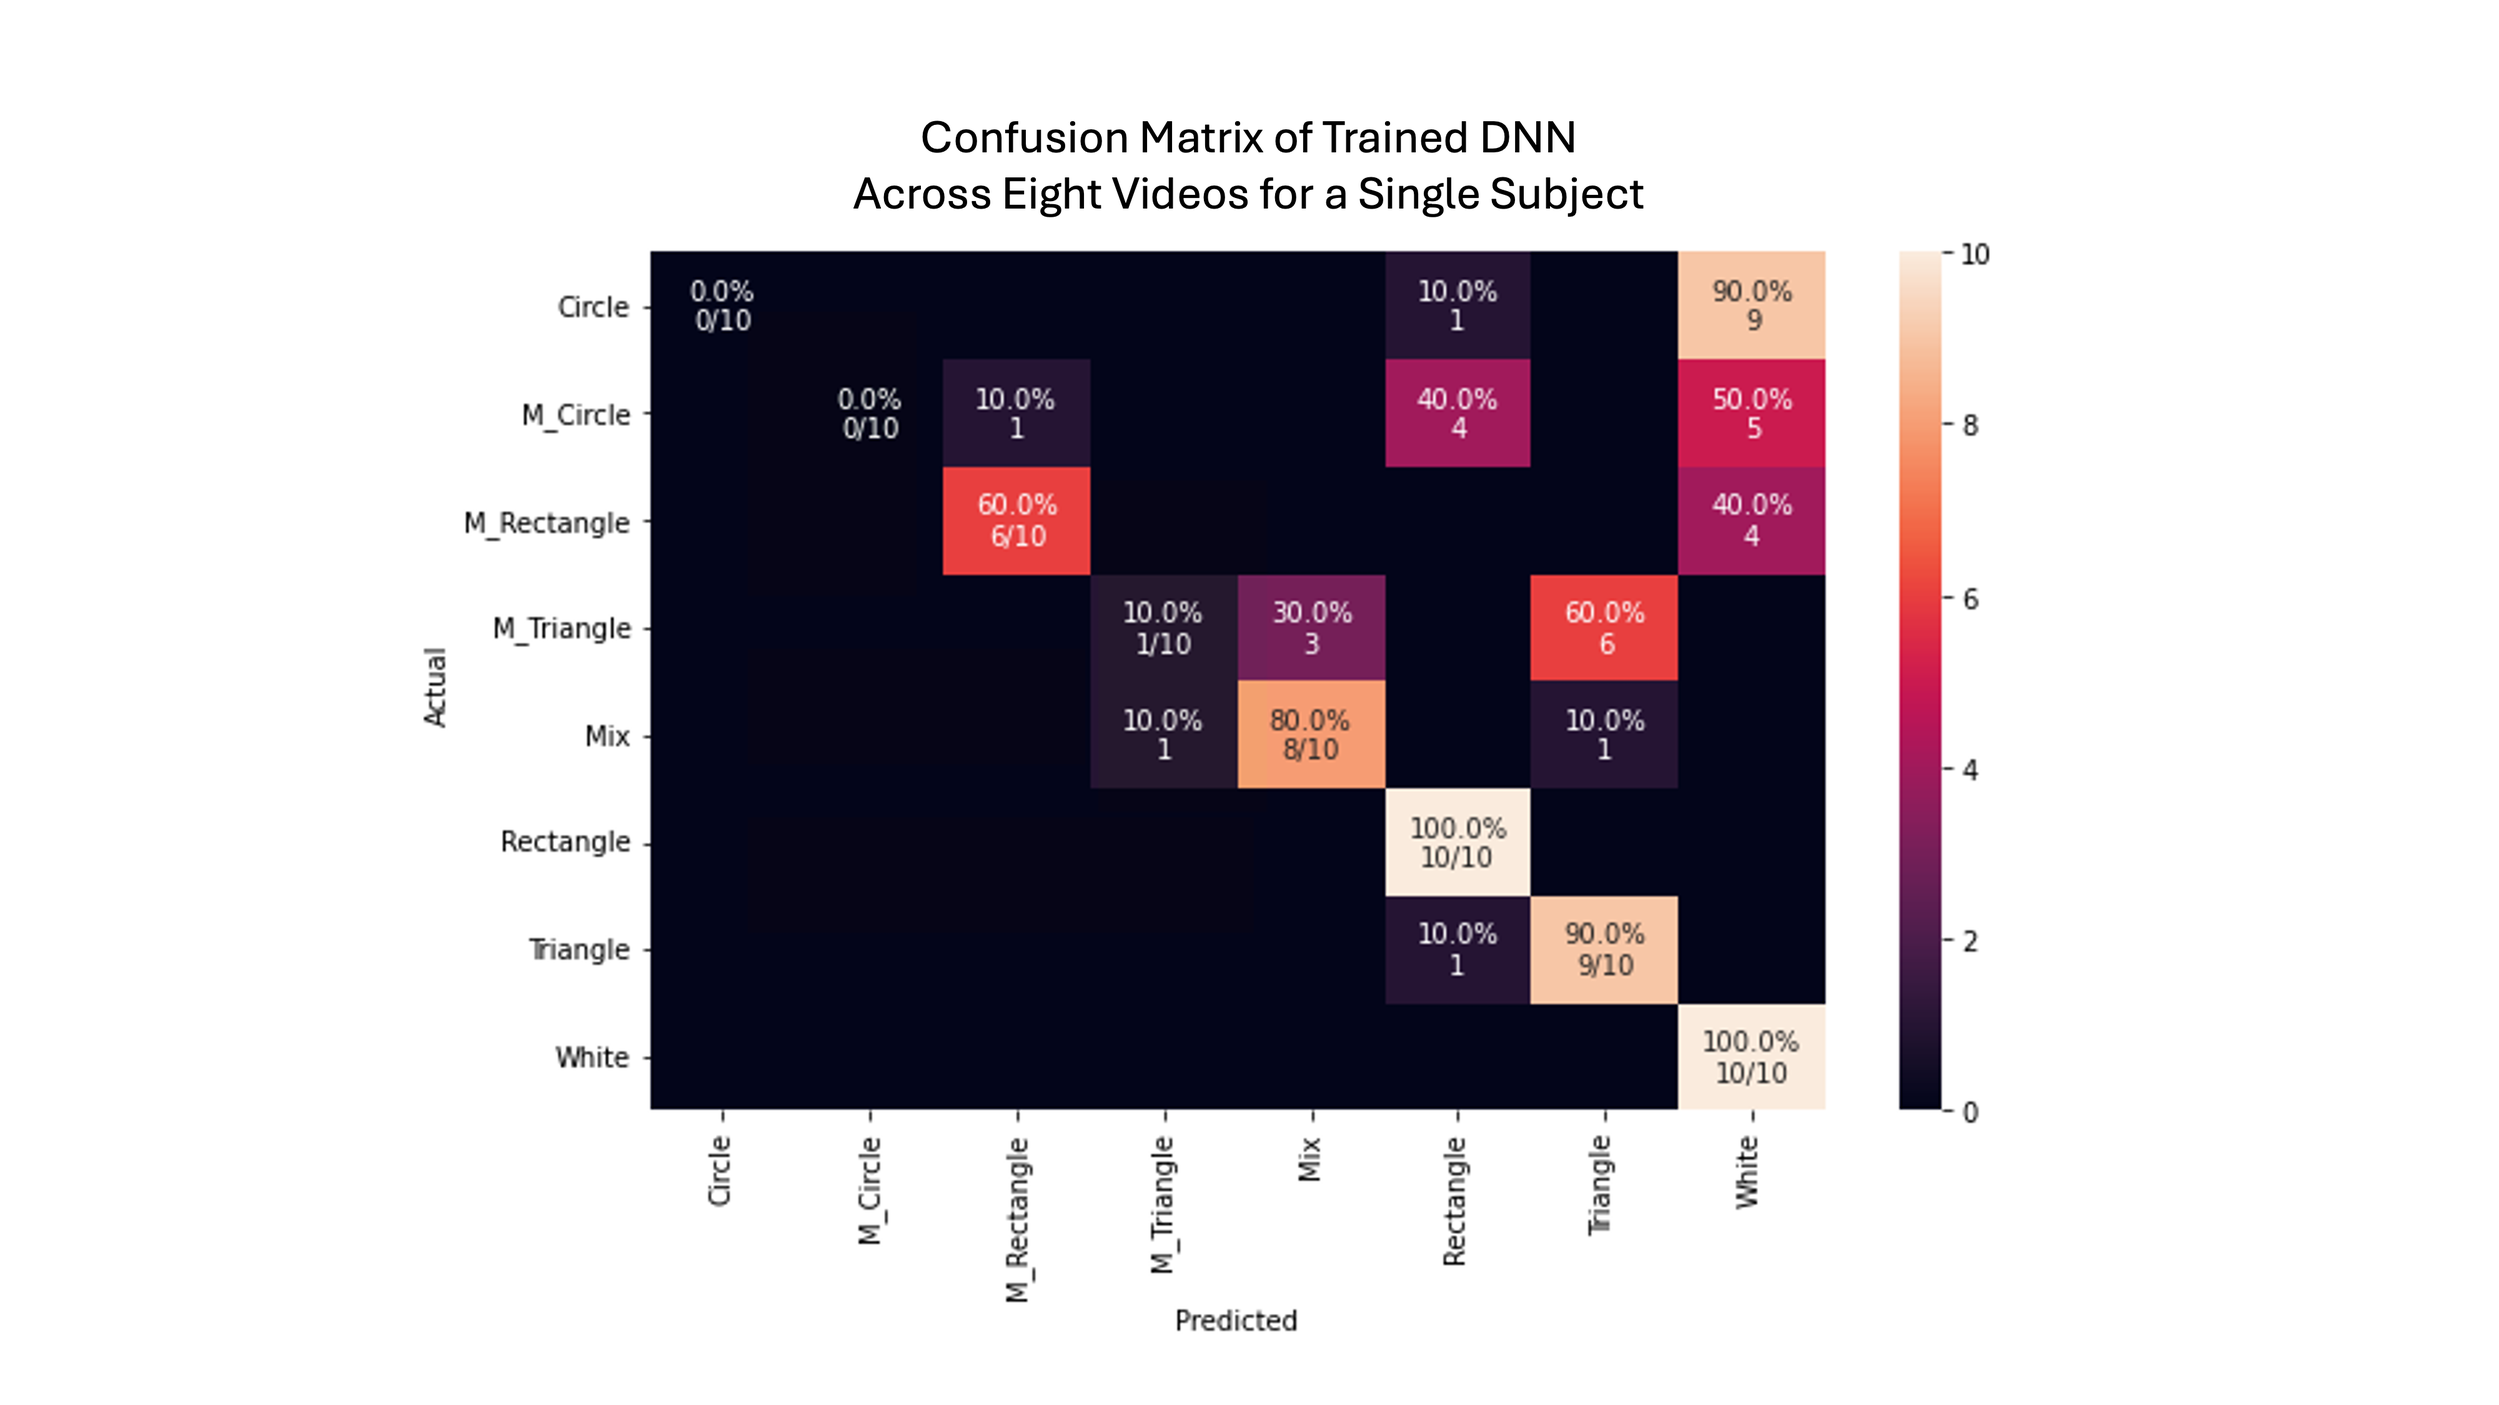
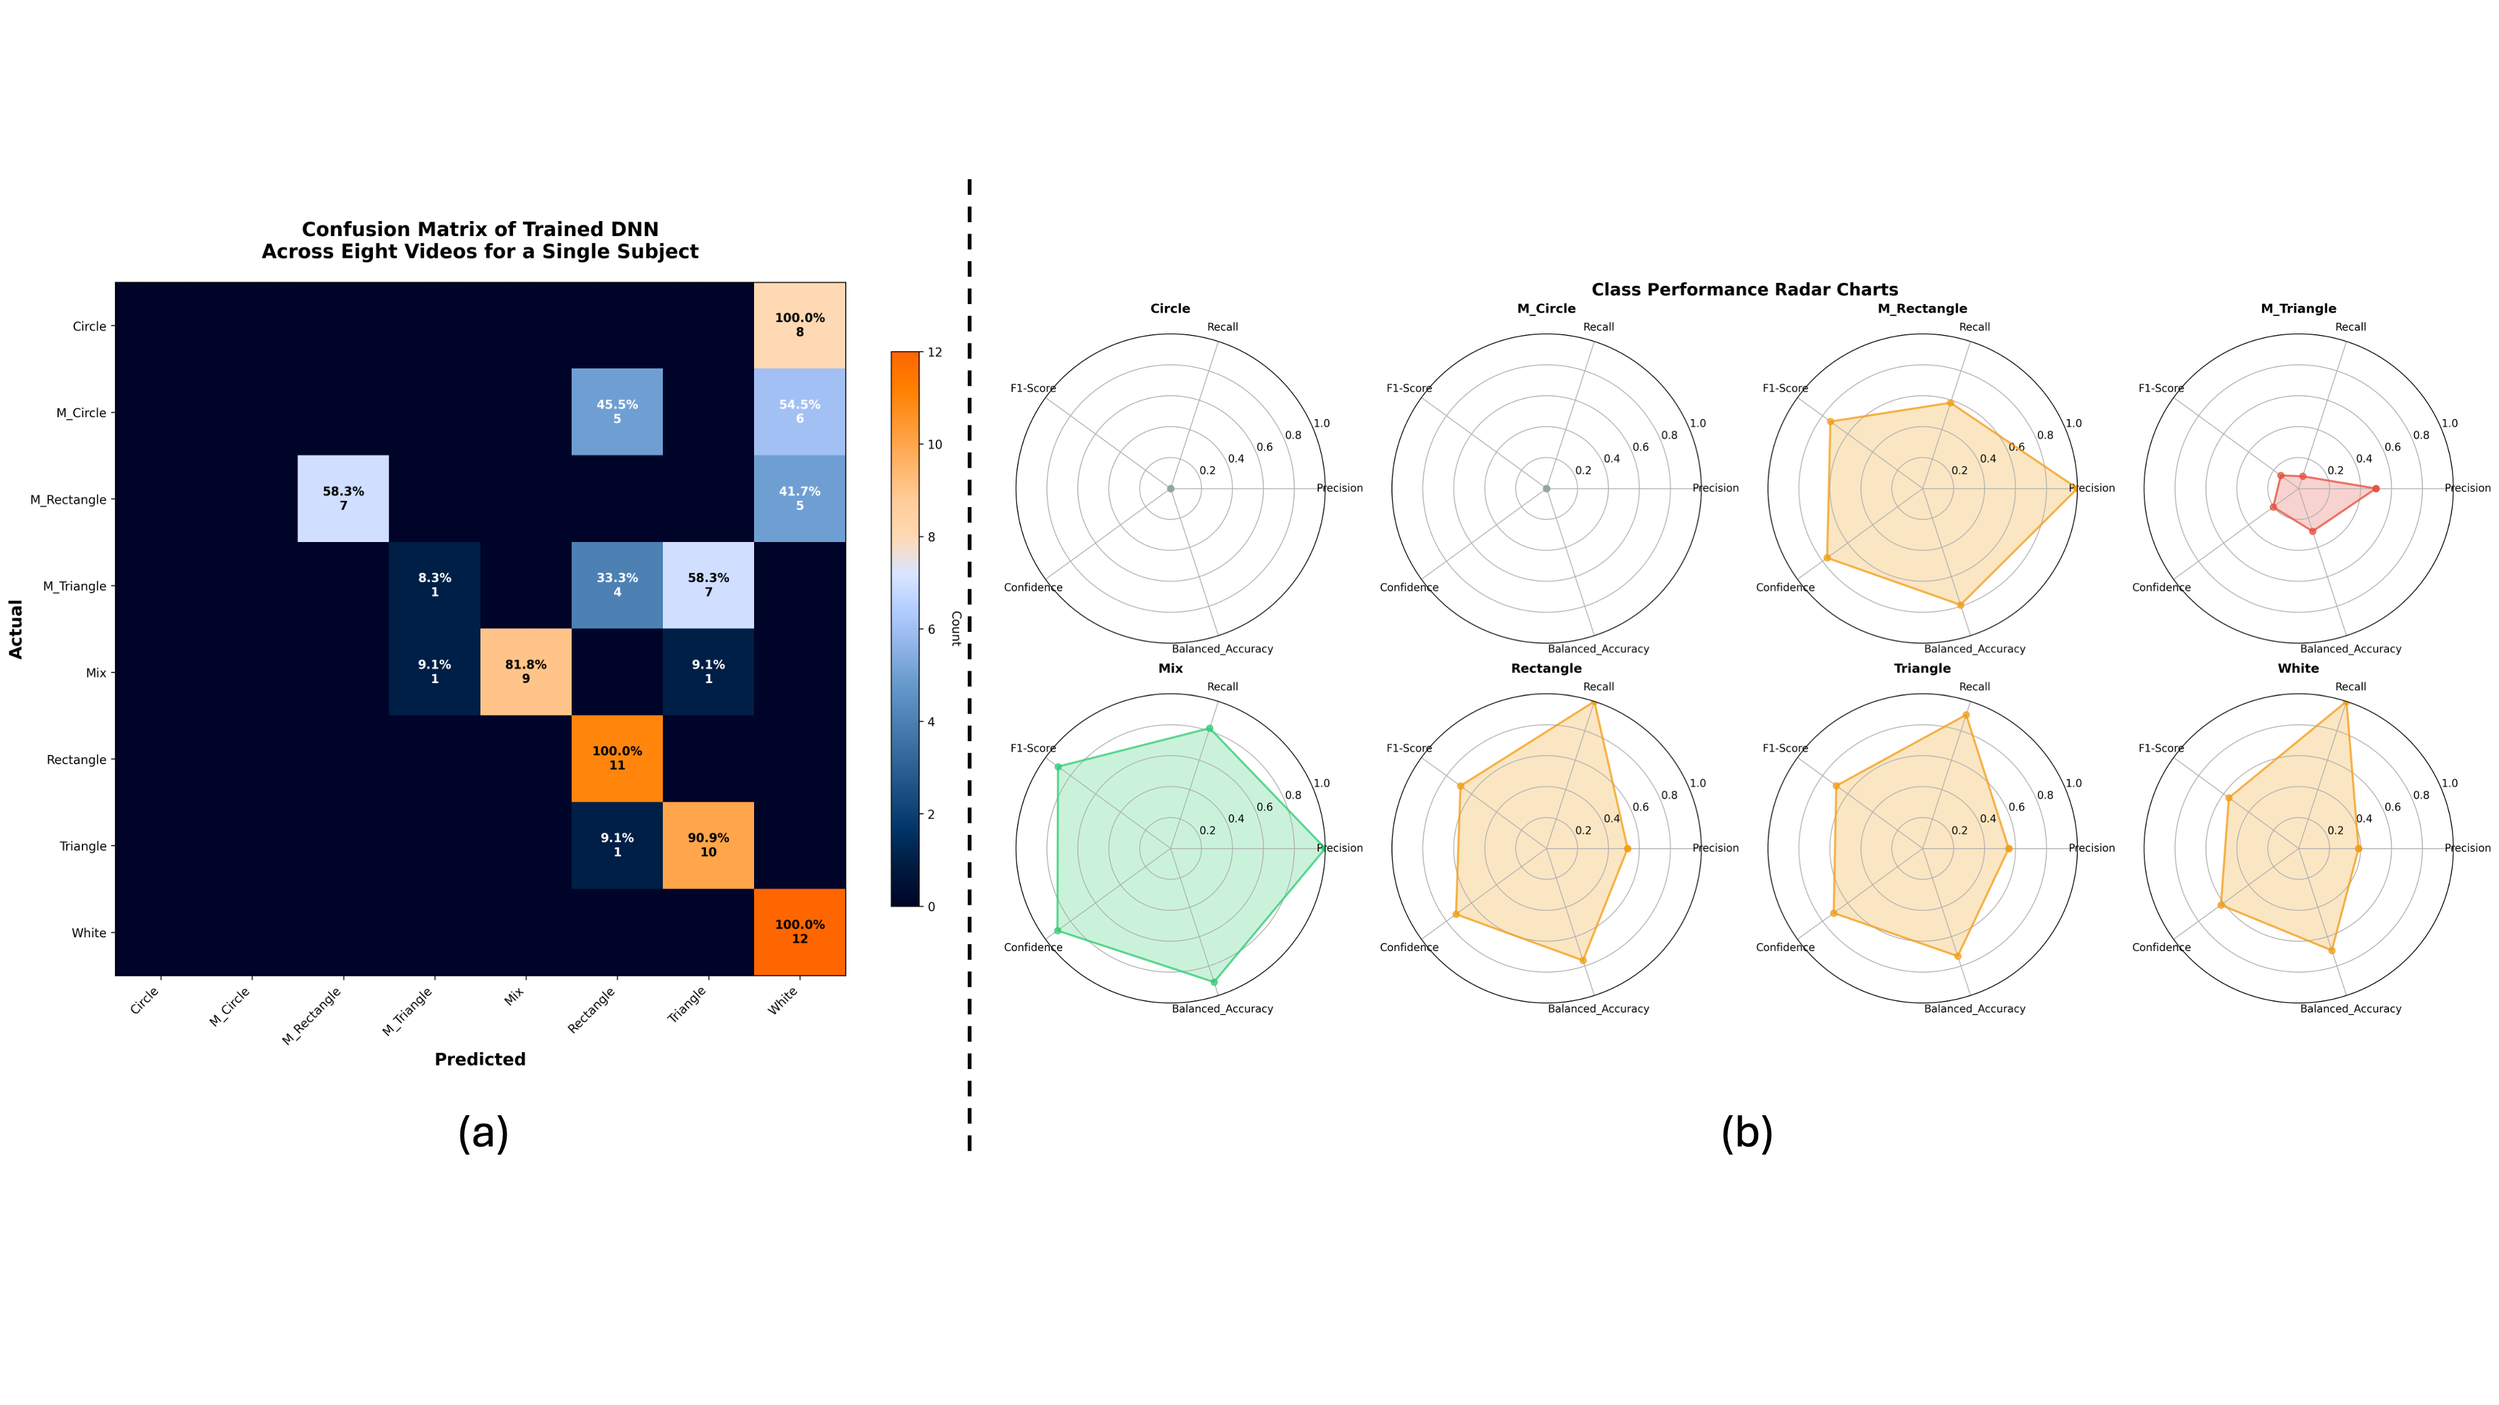
Update README with detailed results and analysis of shape classification tasks; replace figures for improved clarity

diff --git a/README.md b/README.md
@@ -1081,7 +1081,7 @@ visual-cortex-speckle/
 
 This study represents the first experimental setup designed to classify the speckle patterns reflected from the human visual cortex in response to visual stimuli. The experimental framework, as seen in Fig. 1, aimed to validate whether the laser speckle pattern imaging, combined with DNN data processing, could reliably classify the neural-visual brain activity caused by the observation of different geometric shapes.
 Before each recording session, participants were shown a blank white screen to establish a baseline speckle pattern, ensuring the stability of neural responses and minimizing external noise. The speckle patterns were continuously recorded as the tested subjects viewed different shape stimuli. The captured videos were processed and analyzed to determine whether distinct neural responses could be extracted for different visual stimuli.
-The results confirmed that the visual cortex speckle pattern imaging classification could differentiate between a structured and blank screen visual input. The model successfully classified polygonal shapes with higher accuracy, while circular shapes posed a greater challenge with low accuracy, as shown in the confusion matrix, Fig. 2. These findings validate the feasibility of using speckle-based imaging as a non-invasive technique to monitor visual cortex activity, setting the foundation for future advancements in the laser-based detection of neural activity. 
+The results confirmed that the visual cortex speckle pattern imaging classification could differentiate between a structured and blank screen visual input. The model successfully classified polygonal shapes with higher accuracy, while circular shapes posed a greater challenge with low accuracy, as shown in the confusion matrix, Fig. 2a. These findings validate the feasibility of using speckle-based imaging as a non-invasive technique to monitor visual cortex activity, setting the foundation for future advancements in the laser-based detection of neural activity.   
 
 ![alt text](figures/Fig2.png)
 
@@ -1090,27 +1090,30 @@ The results confirmed that the visual cortex speckle pattern imaging classificat
 ![alt text](figures/Fig3.png)
 
 The research was subdivided into several tasks. The first task evaluated the model’s ability to classify speckle patterns generated from the neural responses to single-shape stimuli. Each video presented the participants with a sequence of TV screens containing one geometric shape. A single circle, triangle, or rectangle was consequently displayed on a white background. This setup ensured that neural activity, detected through the speckle pattern classification, was primarily driven by shape recognition without interference from additional visual elements.
-A sample set of the three video types shown to each participant is given in Fig. 3a. The video, displaying a circle, did not exhibit any noticeable speckle pattern variations, setting it apart from other shapes. The resulting poor classification accuracy is shown in Table 1. The validation set accuracy remained close to random, and the test set results indicated limited generalization capability.
-The confusion matrix, Fig. 2, highlights the model failure to classify circles correctly (0% recall), whereas rectangles received the highest recall (100%) and F1-score (77%), triangles with a recall of 90% and an F1-score of 69%. These findings indicate that the neural response associated with polygonal shapes, particularly rectangles, was more distinguishable in the speckles pattern data, as shown in Table 1.
+A sample set of the three video types shown to each participant is given in Fig. 3a. As evident from the results, circular stimuli produced minimal variation in the speckle patterns, resulting in 0% precision and recall, and thus complete classification failure for both circle and multi-circle classes. This outcome is clearly visible in both the confusion matrix (Fig. 2a) and the performance radar charts (Fig. 2b), which show all metrics flat at zero for those categories.
+In contrast, rectangles and triangles yielded strong neural responses. Rectangle videos achieved 100% recall and 52.4% precision, leading to a confidence score of 0.724, although with relatively high complexity (0.476) due to the imbalance between precision and recall. Triangle videos achieved 90.9% recall and 55.6% precision, corresponding to a confidence of 0.712 and moderate complexity (0.353). These results, summarized in Table 1 and visualized in Fig. 2b, highlight that polygonal shapes, especially rectangles and triangles, elicit more distinguishable speckle patterns compared to non-polygonal shapes like circles.
 
 ![alt text](<figures/Table 1.png>)
 
 #### 2.3 Multi-Shape Classification
 The second task tested the model’s ability to classify speckle patterns corresponding to visual stimuli containing multiple instances of the same geometric shape. In each video, participants were shown several copies of a single shape, either triangles, rectangles, or circles, randomly positioned across the screen. This setup was designed to examine whether the repetition of a shape altered neural responses and whether the model could still differentiate between shape categories when multiple instances were simultaneously introduced. The random positioning ensured that the entire visual field was engaged, reducing potential biases related to the spatial location.
-A sample set of these videos is shown in Fig. 3b. The validation set accuracy varied, likely due to noise in the speckle signals. The test set accuracy reached 55%, with the rectangles achieving the highest recall (60%) and F1-score (71%), as summarized in Table 1.
-for other classes, such as multi-triangles and multi-circles, was significantly lower, with multi-triangles achieving only 10% recall and multi-circles failing to achieve any correct predictions (0% recall). 
+A sample set of these videos is shown in Fig. 3b. The results demonstrate varying levels of classification success across shape categories. As detailed in Table 1 and visualized in Fig. 2a and 2b, the multi-rectangle class achieved relatively strong performance, with 58.3% recall, 100% precision, a confidence of 0.763, and moderate complexity (0.417), indicating a higher rate of false negatives than positives.
+In contrast, the multi-triangle class exhibited severe performance degradation, with only 8.3% recall and 50% precision, yielding a confidence score of 0.204 and moderate complexity (0.417). The radar chart in Fig. 2b confirms that this class lies in a low-confidence region, despite some precision.
+As in the single-shape task, multi-circle classification entirely failed, showing 0% precision and recall, and no measurable complexity or confidence, highlighting the absence of distinguishable neural activation for circular stimuli even in repeated patterns.
+These results suggest that while the model can generalize across repeated polygonal shapes like rectangles, it struggles with both low-saliency shapes (e.g., circles) and the added temporal variance introduced by randomly placed stimuli. 
 
 #### 2.4 Mixed-Shape Classification
 The third task assessed the model’s ability to classify speckle patterns generated from visual stimuli containing multiple geometric shapes presented simultaneously in each screen frame. Unlike previous tasks, where stimuli consisted of either a single shape or multiple instances of the same shape, this task introduced frames in which a random number of circles, triangles, and rectangles appeared together in random positions. This setup aimed to evaluate the neural response to complex visual scenes where different shapes coexisted within a single stimulus, testing the model’s capacity to generalize across varying shape compositions.
 A sample set of these videos is shown in Fig. 3c. As expected, the speckle signals generated from white-screen videos without shapes differ significantly from those of the mixed-shape videos. The presence of multiple shape types in each frame introduced additional complexity, requiring the model to distinguish the overlapping neural responses.
-Test results showed that white-screen videos were classified with 100% recall, confirming the model’s ability to reliably detect the absence of structured visual information. Mixed-shape videos also achieved strong performance, with a recall of 80% and an F1-score of 76%, as summarized in Table 1. These findings suggest that while the neural response to complex visual stimuli introduces variability, the model was still able to extract distinguishing features from the speckle pattern data, likely leveraging shape-specific neural signals captured in previous tasks.
+Test results showed that white-screen videos were classified with 100% recall, confirming the model’s ability to reliably detect the absence of structured visual information. Mixed-shape videos also achieved strong performance, with a recall of 81.8% and precision of 100%, as summarized in Table 1. These findings suggest that while the neural response to complex visual stimuli introduces variability, the model was still able to extract distinguishing features from the speckle pattern data, likely leveraging shape-specific neural signals captured in previous tasks.
 
 #### 2.5 General Observations
 Before each recording session, the participants were shown a blank white screen to calibrate the session. This step ensured a stable baseline for neural activity assessment, minimizing variability in the speckle patterns caused by environmental factors or physiological fluctuations. The white-screen calibration also helped normalize the data, allowing for more accurate comparisons between shape-induced neural responses across different trials.
-We found that the overall model’s classification performance consistently favored polygonal shapes, particularly rectangles with the highest recall and F1-scores in both single-shape and multi-shape tasks. The model struggled with circles, as shown in the confusion matrix, Fig. 2, where circular stimuli were often misclassified or failed to produce distinct speckle pattern responses. This trend suggests a potential correlation between circles and the blank white screen condition, implying that non-polygonal shapes may not elicit strong neural responses in the primary visual cortex (V1). This could indicate that the visual system processes circles differently or that the absence of edges in circular stimuli results in a weaker speckle signal, resembling the neural response to the blank screen. Further investigation is needed to explore this potential link and to better understand how the brain encodes different geometric forms.
+We found that the overall model’s classification performance consistently favored polygonal shapes, particularly rectangles and triangles, which achieved high recall and confidence scores in both single-shape and multi-shape tasks (see Table 1 and Fig. 2). Notably, the Mix class exhibited the best overall performance, with perfect precision, high recall (81.8%), and low complexity, indicating well-balanced, reliable predictions in complex visual scenes.
+In contrast, the model completely failed to classify circle and multi-circle stimuli, with 0% precision and recall, suggesting these shapes elicited negligible or non-distinct speckle responses from the visual cortex. This trend is evident in the confusion matrix (Fig. 2a) and confirmed by the flat radar charts (Fig. 2b), where no performance metric was registered for circular categories. These findings reinforce the hypothesis that non-polygonal stimuli, such as circles, may not generate strong or differentiable neural signals in the primary visual cortex (V1), and may even be perceived similarly to the blank (white screen) condition by the model. This suggests that edge-based or angular visual features are more effectively captured through speckle-based imaging of cortical activity. Further investigation is needed to explore this potential link and to better understand how the brain encodes different geometric forms.
+To assess generalization, a 5-fold cross-validation was performed. However, we caution that splitting across folds may involve temporally adjacent frames from the same session, potentially inflating accuracy. Thus, we rely primarily on session-level train-test splits to prevent overfitting due to contextual similarities.
 The classification performance for mixed-shape and white-screen videos was notably high, indicating that the model effectively differentiated between the presence or absence of structured visual stimuli. However, the relatively poor performance on multi-triangle and multi-circle stimuli suggests that increased complexity in the neural response may reduce classification accuracy.
 These findings underscore the potential of laser speckle pattern imaging in sensing the neural dynamics related to shape recognition. However, further research is needed to refine classification models, improve sensitivity to non-polygonal shapes, and explore how neural processing of complex visual stimuli influences speckle pattern response. Future work should also investigate the role of higher-order visual processing mechanisms and their effect on the speckle patterns to enhance the robustness and interpretability of this approach.
-
 
 ## Citation
 
